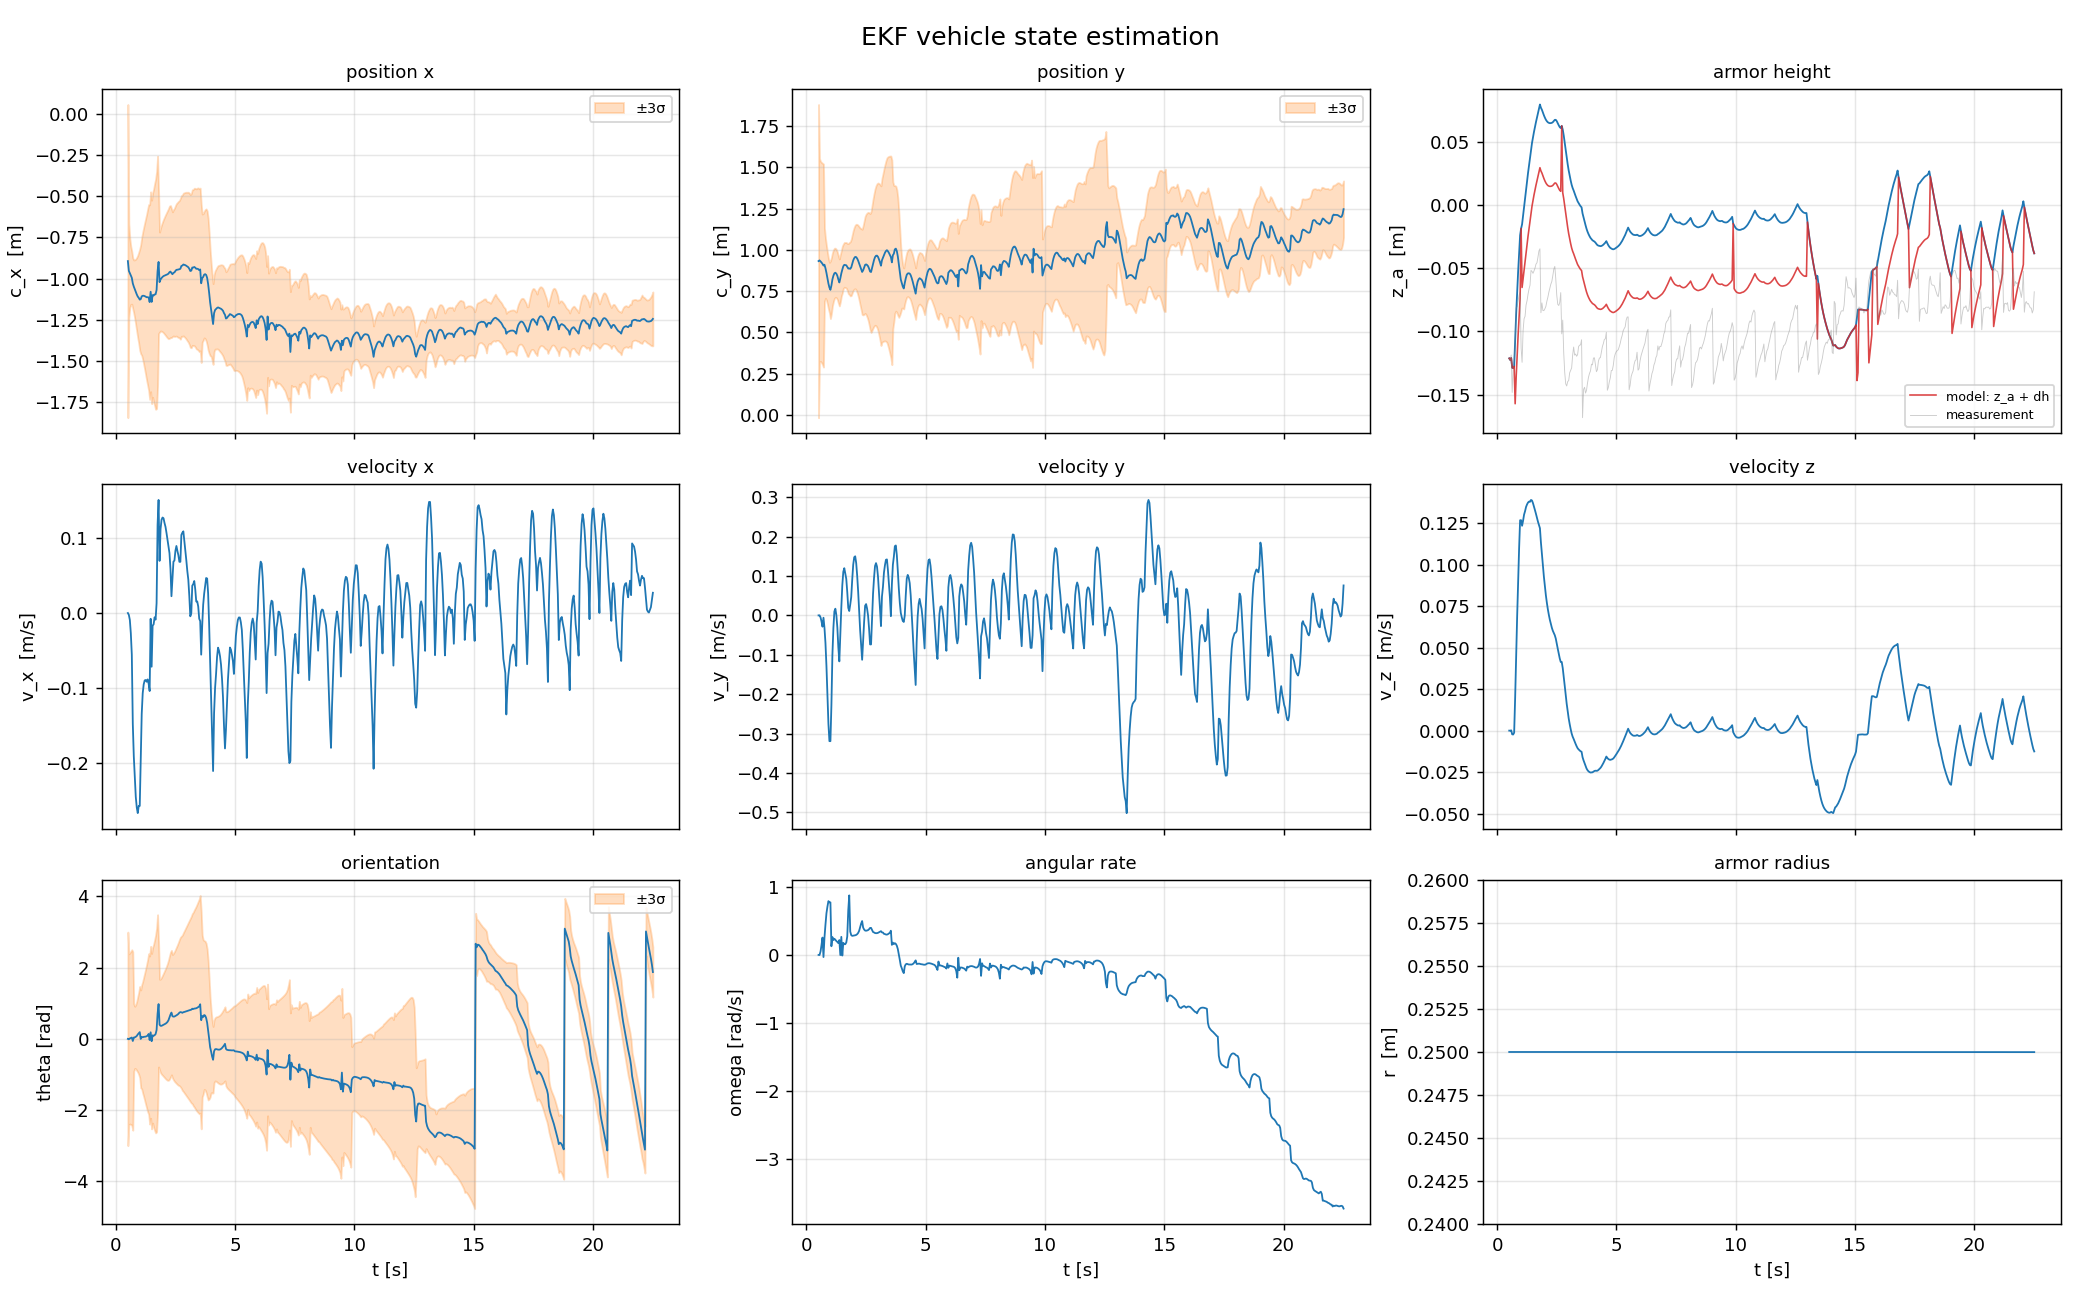
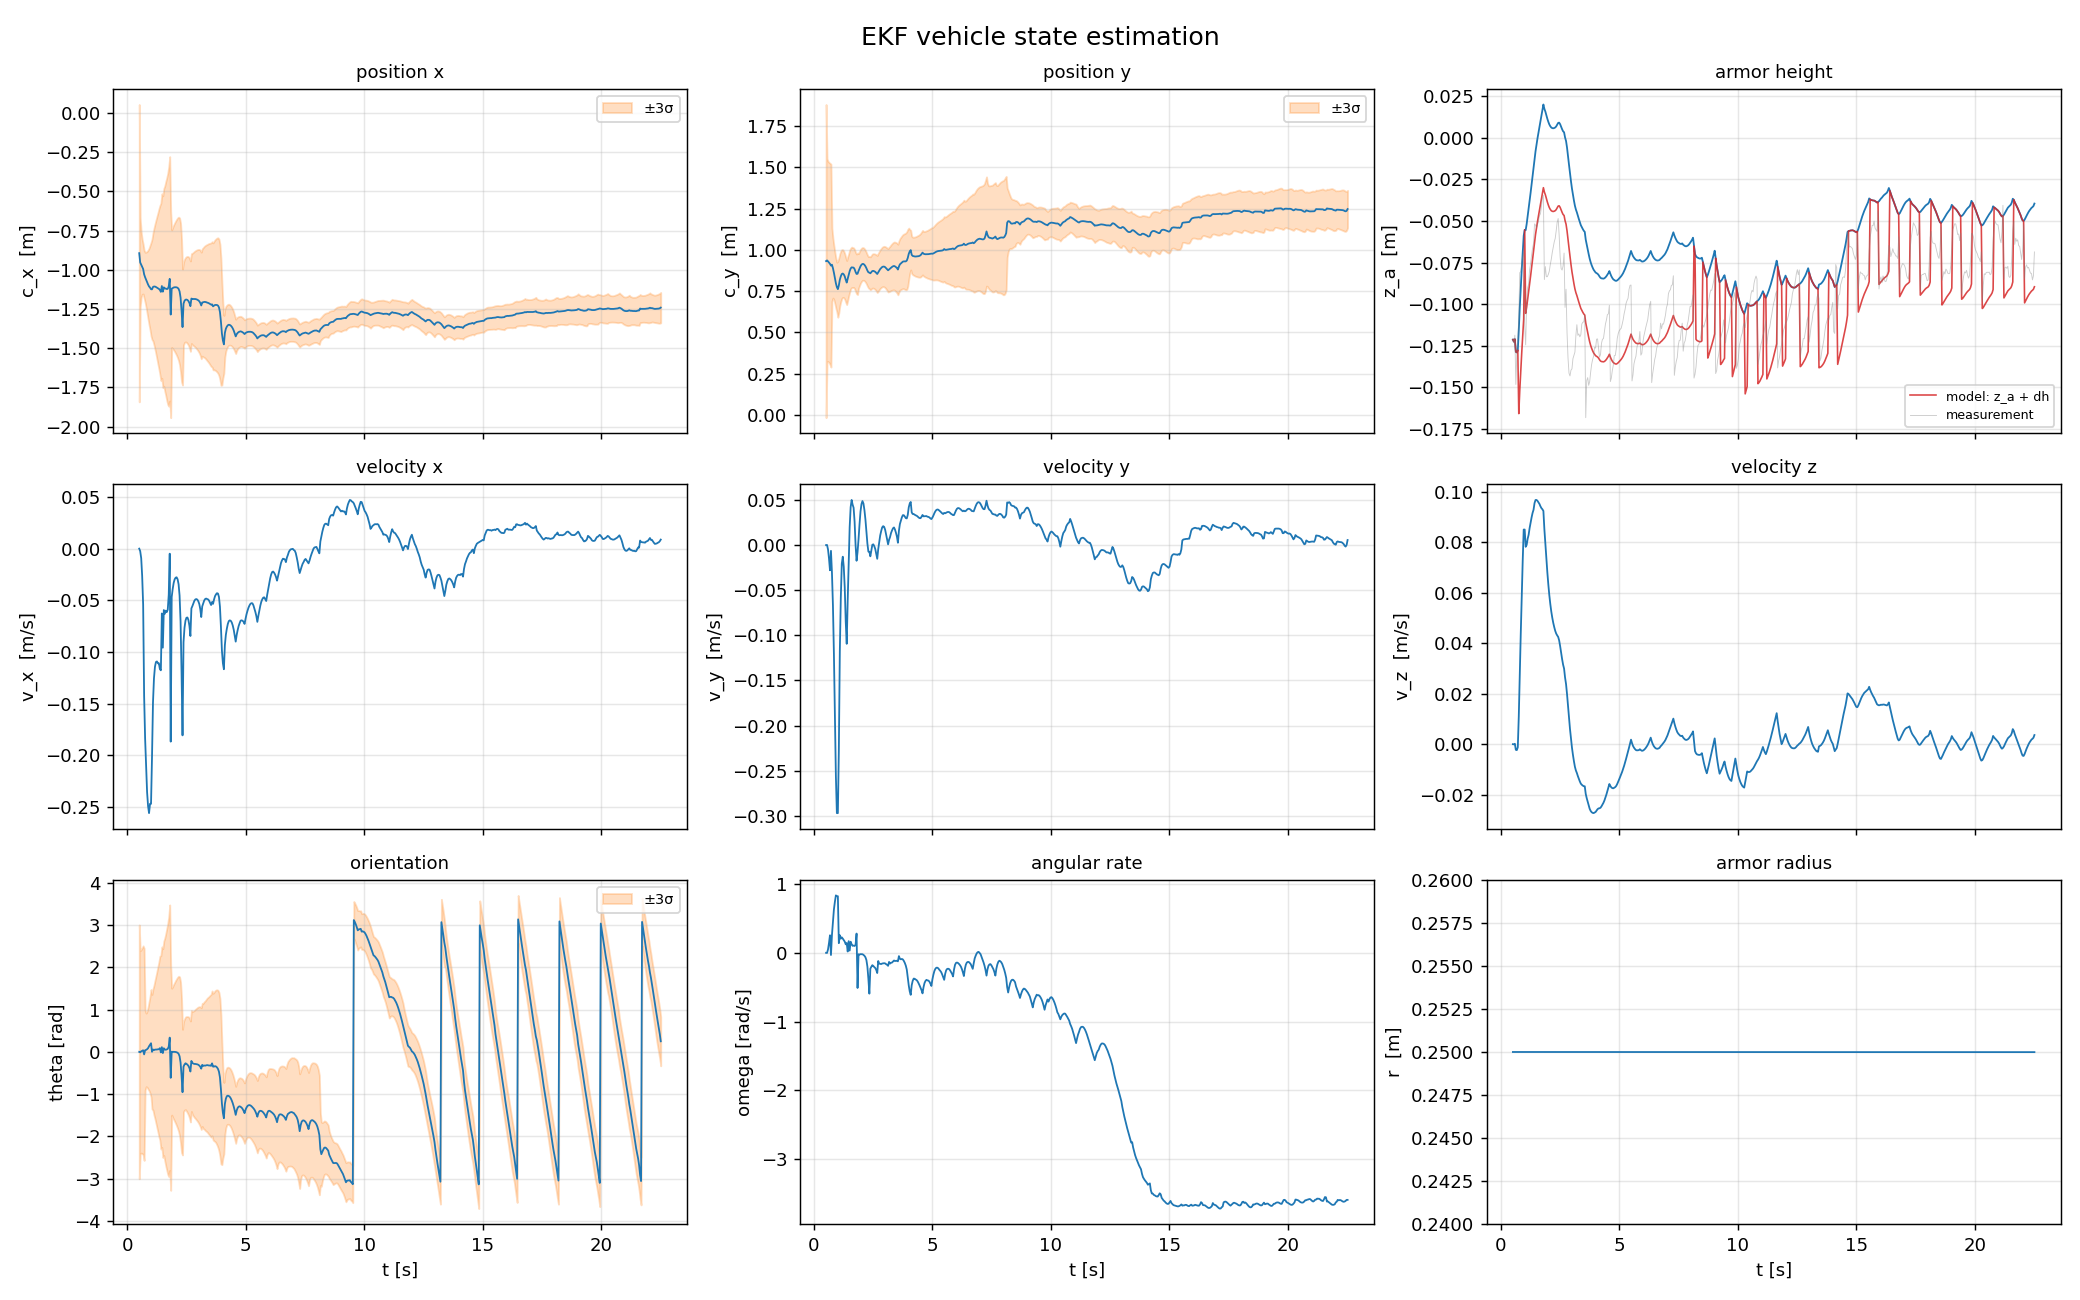
feat: week3 完整链路（姿态初始化 + 重投影 + 抑制自转/平移退化）
【初始化】由首帧 PnP 的 rvec 反解板方位角 theta_j 作为 Ekf::init 的朝向输入
（物体系 z 轴即板法线；init 假设观测属板 0，PHI[0]=0，故可直接传 theta_j），
使车心从第一帧起落在正确位置，消除原前半段 86~226 px 的重投影偏移

【重投影】plateCorners/drawArmorBoxes 按 135x55mm 生成 4 个世界系角点，
经 R_cw 转相机系后投影绘制；框朝向由 rvec 反解，四板共用

【定量结果（10 采样帧）】
- 框宽误差 <= 5%（144/145、206/206、60/55、163/158、208/200、91/89、190/188、203/198、138/141）
- 框高误差 <= 5%（79/83、83/84、79/79、81/81、87/82、81/88、83/85、87/83、89/84）
- 中心偏移 0~85 px（约 0~5 cm），方向不固定

【偏差归因】5 cm 与装甲板高低差 delta_h 同量级、方向不固定 =>
 板高差分组不确定性（delta_h 激励帧数仅 7/531，无法标定）

【抑制自转/平移退化】速度通道过程噪声 x0.01，omega 由约 0 变为非零，
板号切换 42->50（与视频可见 40+ 次一致），匹配率 99.8%，z RMS 2.36 cm

【在线/离线对照】离线路径无姿态观测、初始化取 theta=0，切换 42 次、车心漂移 0.5 m；
在线路径引入姿态观测后切换 50 次、框精确落在板上 —— 姿态观测有效性的直接证据

diff --git a/src/week3_main.cpp b/src/week3_main.cpp
@@ -220,11 +220,13 @@ static void drawArmorBoxes(cv::Mat& img,
                                                  : cv::Scalar(90, 90, 90);
         const int thick = (j == jMatched) ? (BOX_THICK + 1) : BOX_THICK;
 
-         if (j == jMatched && g_dbgBox)
+        if (j == jMatched && g_dbgBox)
         {
-            printf("       [预测] 宽=%.0f 高=%.0f\n",
+            printf("       [预测] 宽=%.0f 高=%.0f  中心=(%.0f,%.0f)\n",
                    cv::norm(cv::Point2f(pts[1] - pts[0])),
-                   cv::norm(cv::Point2f(pts[2] - pts[1])));
+                   cv::norm(cv::Point2f(pts[2] - pts[1])),
+                   (pts[0].x + pts[2].x) * 0.5f,
+                   (pts[0].y + pts[2].y) * 0.5f);
         }
 
         // 板中心在相机系下的方向
@@ -322,9 +324,34 @@ int main()
         //5.4 转为世界系+喂给tracker
         const double t = imu.stampOf(idx); //时间戳
         std::vector<PlateMeas> ms; //观测容器
+        // 由 rvec 反解板的方位角 θ_j（用于初始化）
+        double thjMeas = 0.0;
+        bool   hasThj  = false;
+
+        if (pr.ok)
+        {
+            cv::Mat R_pc;
+            cv::Rodrigues(pr.rvec, R_pc);
+            const cv::Mat nCam = R_pc.col(2);
+            const cv::Mat R_wc = imu.rotationAt(t, 0) * ImuBuffer::camToBody(0);
+            const cv::Mat nW   = R_wc * nCam;
+
+            const double nx = nW.at<double>(0);
+            const double ny = nW.at<double>(1);
+
+            if (std::sqrt(nx * nx + ny * ny) > 1e-6)
+            {
+                thjMeas = std::atan2(-ny, -nx);
+                hasThj  = true;
+            }
+        }
+
+
         if (pr.ok)
         {
             PlateMeas m;
+            m.thetaMeas = thjMeas;
+            m.hasTheta  = hasThj;
             m.pos   = imu.camToWorld(pr.tvec, t, 0, 0);
             m.digit = (best >= 0) ? dets[best].cls   : -1;
             m.score = (best >= 0) ? dets[best].score : 0.0f;
@@ -336,8 +363,9 @@ int main()
         if (g_dbgBox && pr.ok && j >= 0)
         {
             const auto& K4 = dets[best].kpt;
-            printf("帧%4d [检测] 宽=%.0f 高=%.0f  j=%d\n",
-                   idx, cv::norm(K4[1] - K4[0]), cv::norm(K4[2] - K4[1]), j);
+            printf("帧%4d [检测] 宽=%.0f 高=%.0f  中心=(%.0f,%.0f)  j=%d\n",
+                   idx, cv::norm(K4[1] - K4[0]), cv::norm(K4[2] - K4[1]),
+                   (K4[0].x + K4[2].x) * 0.5f, (K4[0].y + K4[2].y) * 0.5f, j);
         }
 
         if (fcsv)

diff --git a/src/armor_tracker.cpp b/src/armor_tracker.cpp
@@ -41,9 +41,13 @@ int ArmorTracker::update(const std::vector<PlateMeas>& meas, double t)
         if (meas.empty()) return -1;
 
         const cv::Mat& p = meas[0].pos;
-        // 把这次观测当成"板 0"，θ 先猜 0，靠后续观测修正
+
+        // 若有观测反解的方位角，就用它初始化（init 内部假设这是板 0，φ=0，
+        // 故可直接传入 θ_j）；否则退回猜 0
+        const double th0 = meas[0].hasTheta ? meas[0].thetaMeas : 0.0;
+
         ekf_.init(p.at<double>(0), p.at<double>(1), p.at<double>(2),
-                  0.0, PLATE_RADIUS, 0.10);
+                  th0, PLATE_RADIUS, 0.10);
 
         inited_  = true;
         last_t_  = t;

diff --git a/src/ekf.cpp b/src/ekf.cpp
@@ -113,6 +113,10 @@ void Ekf::predict(double dt)
 
     Q.at<double>(R_ARM, R_ARM) = 0.0; //给r加一个极小的噪声，使其可以微调修正（修改：不加任何噪声）
 
+    // 目标基本不平移：压低速度通道的过程噪声，避免把"自转"解释成"平移"
+    Q.at<double>(VX, VX) *= 0.01;
+    Q.at<double>(VY, VY) *= 0.01;
+
     //更新x_和P_
     x_ = F * x_;
     P_ = F * P_ * F.t() + Q;

diff --git a/include/armor_tracker.hpp b/include/armor_tracker.hpp
@@ -10,6 +10,8 @@ struct PlateMeas
     cv::Mat pos;        
     int     digit{0};
     double  score{0.0};
+    double  thetaMeas{0.0};      //由观测反解的板方位角 θ_j
+    bool    hasTheta{false};    
 };
 
 class ArmorTracker
